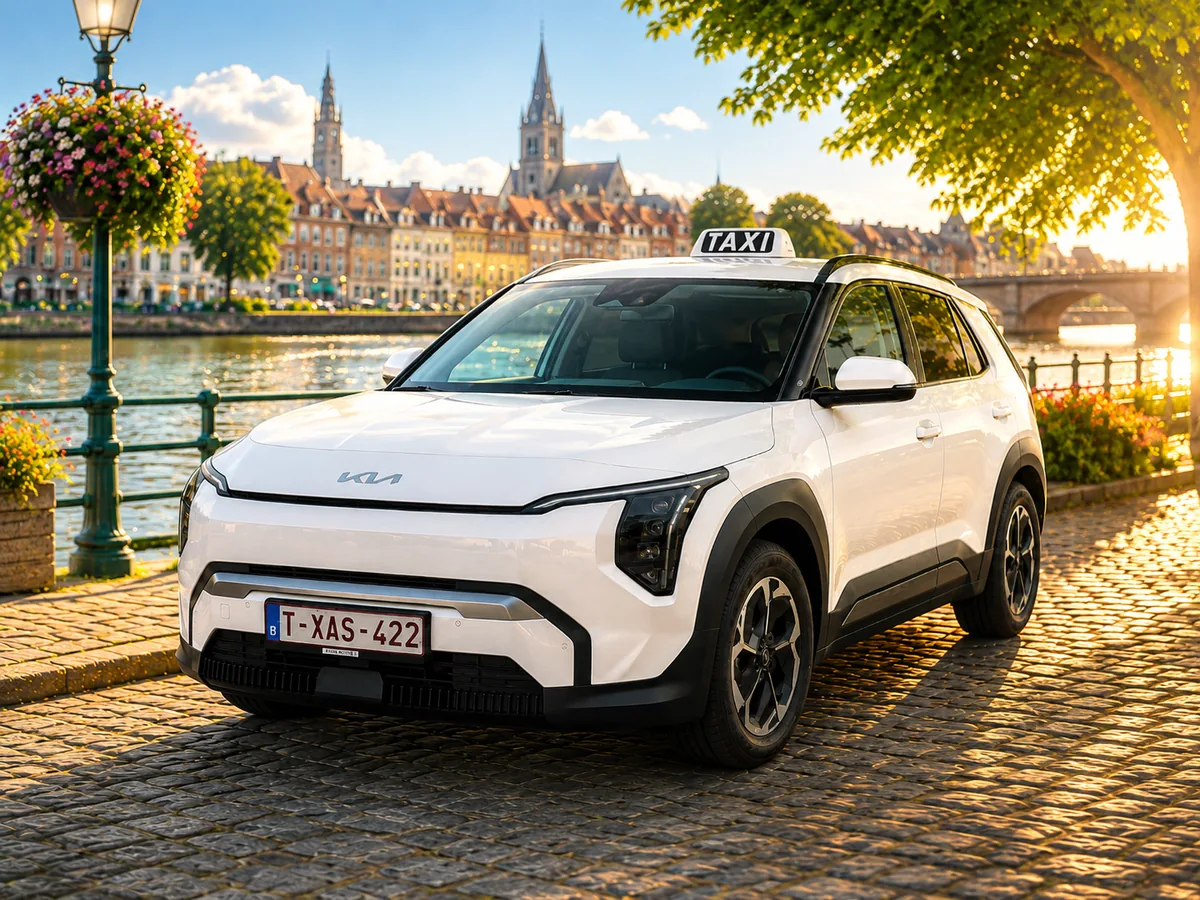
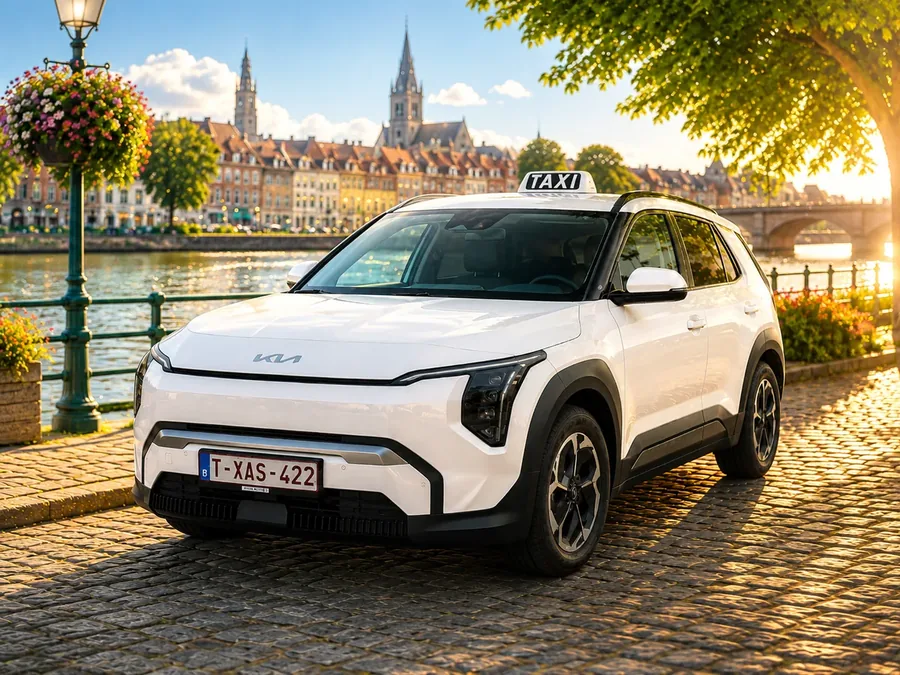
hero-afbeelding optimaliseren voor snellere LCP + web3forms wees verwijderen

diff --git a/src/components/pages/PrivacybeleidPage.tsx b/src/components/pages/PrivacybeleidPage.tsx
@@ -25,13 +25,13 @@ export default function PrivacybeleidPage() {
       icon: Shield,
       title: "Delen met derden",
       content:
-        "Wij verkopen of verhuren uw persoonsgegevens nooit. Enkel wanneer noodzakelijk kunnen gegevens gedeeld worden met boekhoudkundige of technische dienstverleners.",
+        "Wij verkopen of verhuren uw persoonsgegevens nooit. Voor de werking van onze dienst doen wij een beroep op een beperkt aantal verwerkers, die uw gegevens enkel in onze opdracht en volgens onze instructies verwerken: Resend (verzending van de bevestigings- en aanvraagmails), de kaartdiensten Photon/Komoot en OSRM (adressuggesties en het berekenen van de afstand — het ingevulde adres wordt hiervoor naar deze diensten verstuurd), Cloudflare (hosting van de website) en Hostinger (onze e-mailbox). Daarnaast kunnen gegevens worden gedeeld met onze boekhouder voor facturatie. Sommige van deze diensten verwerken gegevens buiten de EU; in dat geval gebeurt dit onder passende waarborgen zoals het EU-US Data Privacy Framework of standaardcontractbepalingen.",
     },
     {
       icon: Lock,
       title: "Bewaartermijn & beveiliging",
       content:
-        "Wij bewaren persoonsgegevens niet langer dan noodzakelijk en nemen passende technische en organisatorische maatregelen om uw gegevens te beschermen.",
+        "Gegevens van ritten die tot een factuur leiden, bewaren wij 7 jaar, zoals de Belgische boekhoudwetgeving verplicht. Aanvragen die niet tot een rit leiden, verwijderen wij uiterlijk 12 maanden na de aanvraag. Wij nemen passende technische en organisatorische maatregelen om uw gegevens te beschermen tegen verlies of ongeoorloofde toegang.",
     },
     {
       icon: Eye,

diff --git a/src/components/pages/HomePage.tsx b/src/components/pages/HomePage.tsx
@@ -91,6 +91,10 @@ export default function HomePage() {
                   src="/car.webp"
                   alt="Kia taxi van Taxi Bornem Hamid in Bornem"
                   className="w-full h-full object-cover"
+                  width={900}
+                  height={675}
+                  fetchPriority="high"
+                  decoding="async"
                 />
                 <div className="absolute inset-0 bg-gradient-to-t from-black/30 via-transparent to-transparent" />
               </div>
